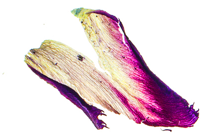
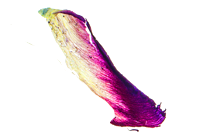
Adds petals animation to the front page.

diff --git a/web/app/themes/sage/assets/styles/components/_page-header-featured-image.scss b/web/app/themes/sage/assets/styles/components/_page-header-featured-image.scss
@@ -53,7 +53,7 @@
 	}
 	#petal2 {
 		animation-duration: 4s;
-		animation-delay: 2s;
+		animation-delay: 8s;
 		top: -80%;
 	}
 	#petal3 {
@@ -83,7 +83,12 @@
 	}
 	#petal8 {
 		animation-duration: 5s;
-		animation-delay: 8s;
+		animation-delay: 2s;
 		top: -50%;
+	}
+	#petal9 {
+		animation-duration: 4s;
+		animation-delay: 3s;
+		top: -65%;
 	}
 }

diff --git a/web/app/themes/sage/templates/components/front-page-page-header-featured-image.blade.php b/web/app/themes/sage/templates/components/front-page-page-header-featured-image.blade.php
@@ -10,5 +10,6 @@
 	<img id="petal6" src="/app/themes/sage/dist/images/Petal_6.png" alt="Floating petal" class="floating-petal">
 	<img id="petal7" src="/app/themes/sage/dist/images/Petal_7.png" alt="Floating petal" class="floating-petal">
 	<img id="petal8" src="/app/themes/sage/dist/images/Petal_8.png" alt="Floating petal" class="floating-petal">
+	<img id="petal9" src="/app/themes/sage/dist/images/Petal_9.png" alt="Floating petal" class="floating-petal">
 </div>
 <!-- END: page-header-featured-image.blade.php -->
